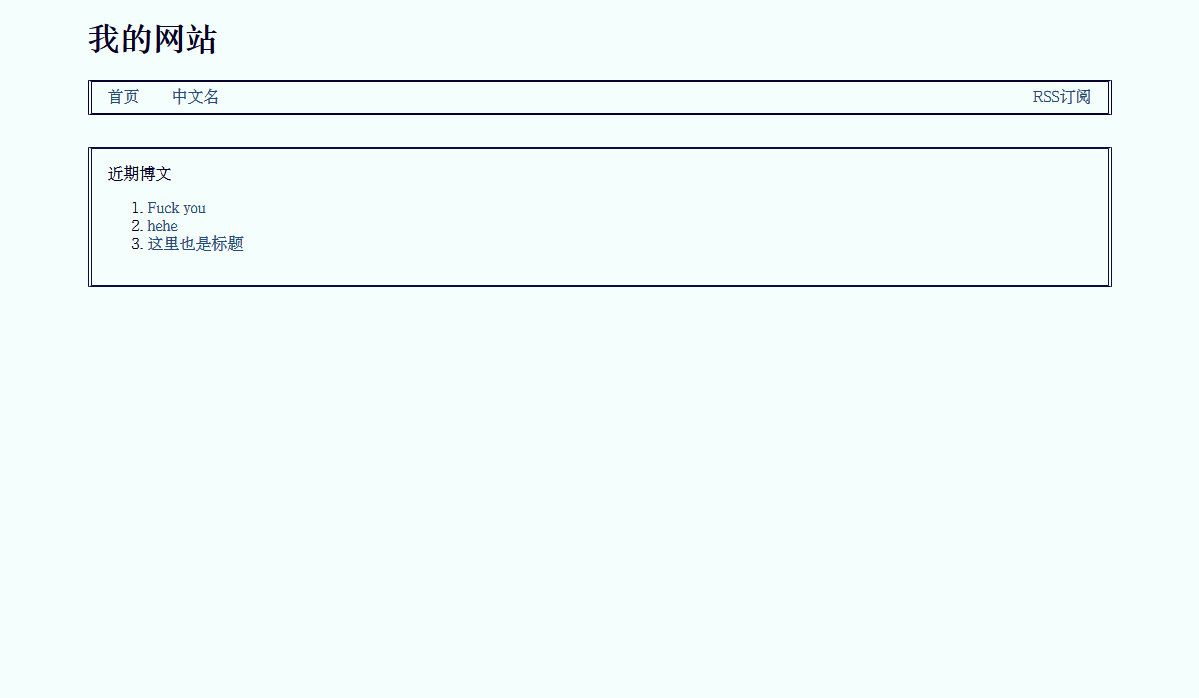
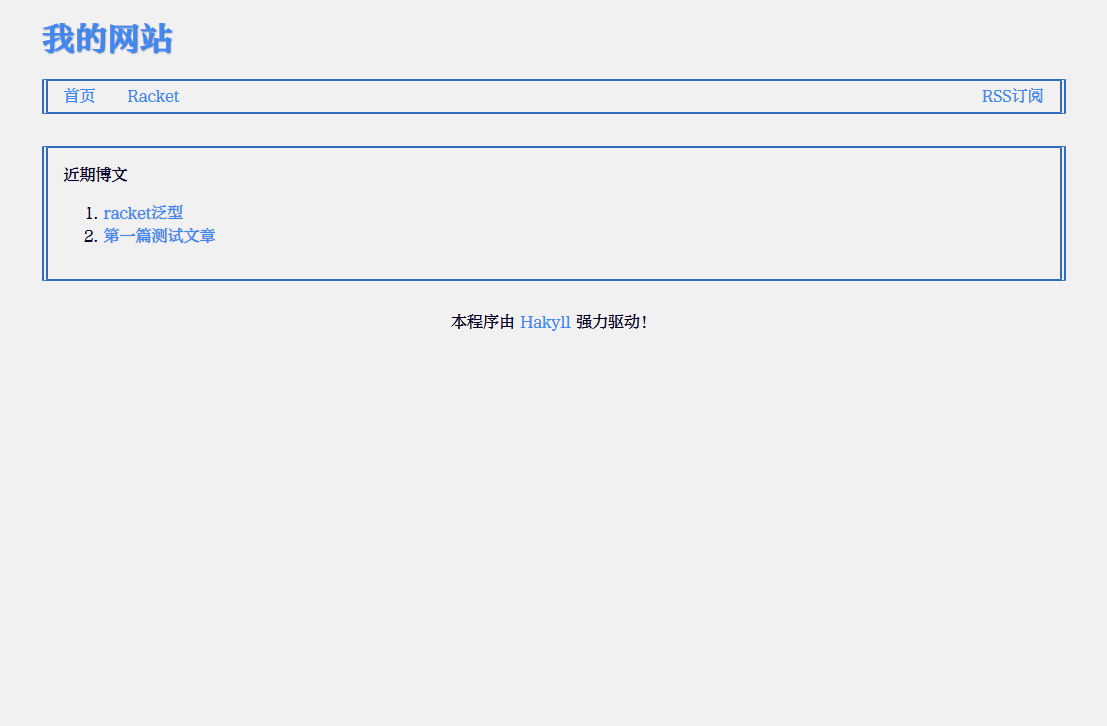
更新截图与自述文件格式。

Changed region(s): [[0.0307, 0.0301, 0.9828, 0.4212], [0.3993, 0.4212, 0.5836, 0.4513]]

diff --git a/css/aono.css b/css/aono.css
@@ -148,10 +148,6 @@ pre > code {
 	line-height: 1.4em;
 }
 
-.aono.segment .header {
-	margin-bottom: 4rem;
-}
-
 .aono.segment .right.cat {
 	float: right;
 }

diff --git a/README.md b/README.md
@@ -1,25 +1,23 @@
-* AONO
+# AONO
 
-** 简介
+基于[Hakyll](https://jaspervdj.be/hakyll/)配置出来的静态博客应用。
 
-基于[[https://jaspervdj.be/hakyll/][Hakyll]]配置出来的静态博客应用。
+# 特色
 
-** 特色
-
-+ 支持[[https://pandoc.org/][pandoc]]语法。
++ 支持[pandoc](https://pandoc.org/)语法。
 + 提供ATOM格式订阅。
 + 无任何javascript，终端友好。
 
-** 安装使用
+# 安装使用
 
-1. 安装[[https://docs.haskellstack.org/en/stable/README/][stack。]]
-2. 下载或 =git clone= 代码库。
-3. =stack build= 。
-4. 生成可执行文件 =aono= ，具体用法跟[[https://jaspervdj.be/hakyll/tutorials/01-installation.html][Hakyll教程一致]]。
+1. 安装[stack](https://docs.haskellstack.org/en/stable/README/)。
+2. 下载或`git clone`代码库。
+3. `stack build`。
+4. 生成可执行文件`aono`，具体用法跟[Hakyll教程一致](https://jaspervdj.be/hakyll/tutorials/01-installation.html)。
 5. config.sample.yml复制或改名成config.yml。
 6. 更改配置（可选）。
 
-** 配置说明
+# 配置说明
 
 | 字段    | 说明               | 可选 | 默认值       |
 |---------+--------------------+------+--------------|
@@ -31,13 +29,12 @@
 | postdir | 文章目录           | 是   | posts        |
 | output  | 网页输出目录       | 是   | Hakyll默认值 |
 
-** 截图
+# 截图
 
-[[file:screenshot/firefox-shot.png][火狐截图]]
+[!火狐截图](./screenshot/firefox-shot.png)
+[!w3m截图](./screenshot/w3m-shot.png)
 
-[[file:screenshot/w3m-shot.png][w3m截图]]
-
-** 协议
+# 协议
 
 + 程序代码使用GPL v3协议发布。
-+ css声明了[[http://www.foundertype.com/][方正]]字体，为了显示正常，需要去单独安装它们字体。
++ css声明了[方正](http://www.foundertype.com/)字体，为了显示正常，需要去单独安装它们字体。
